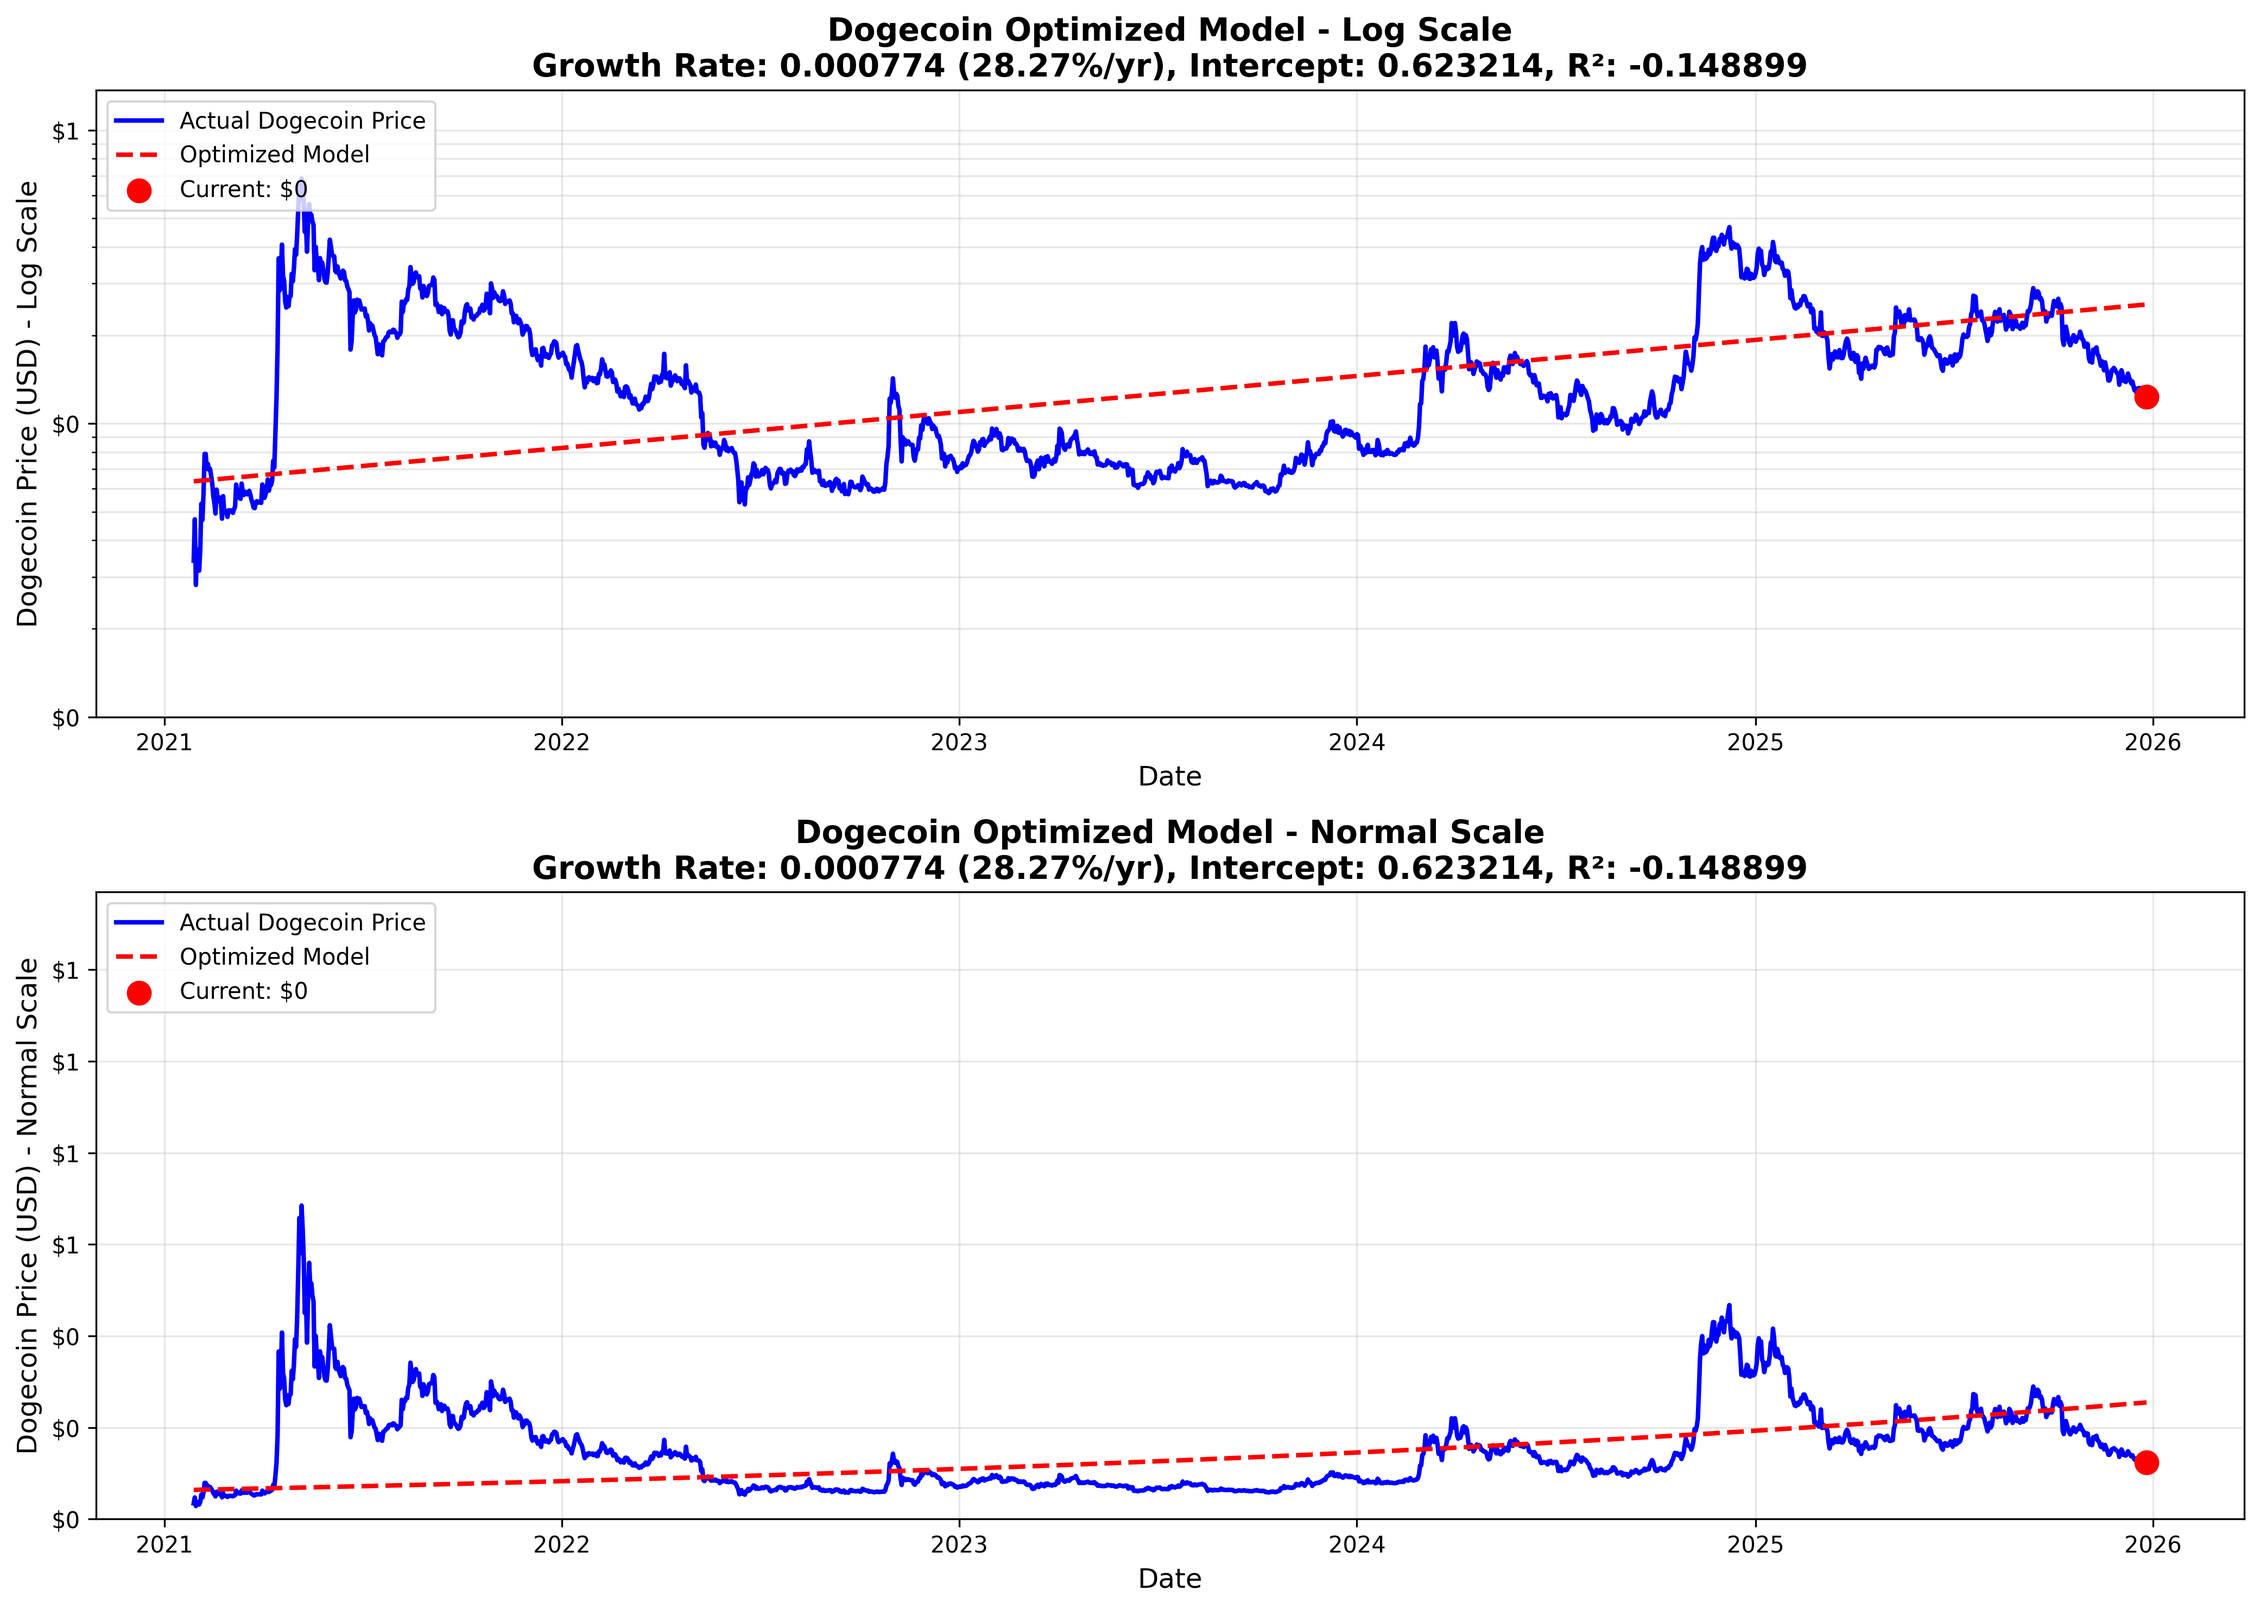
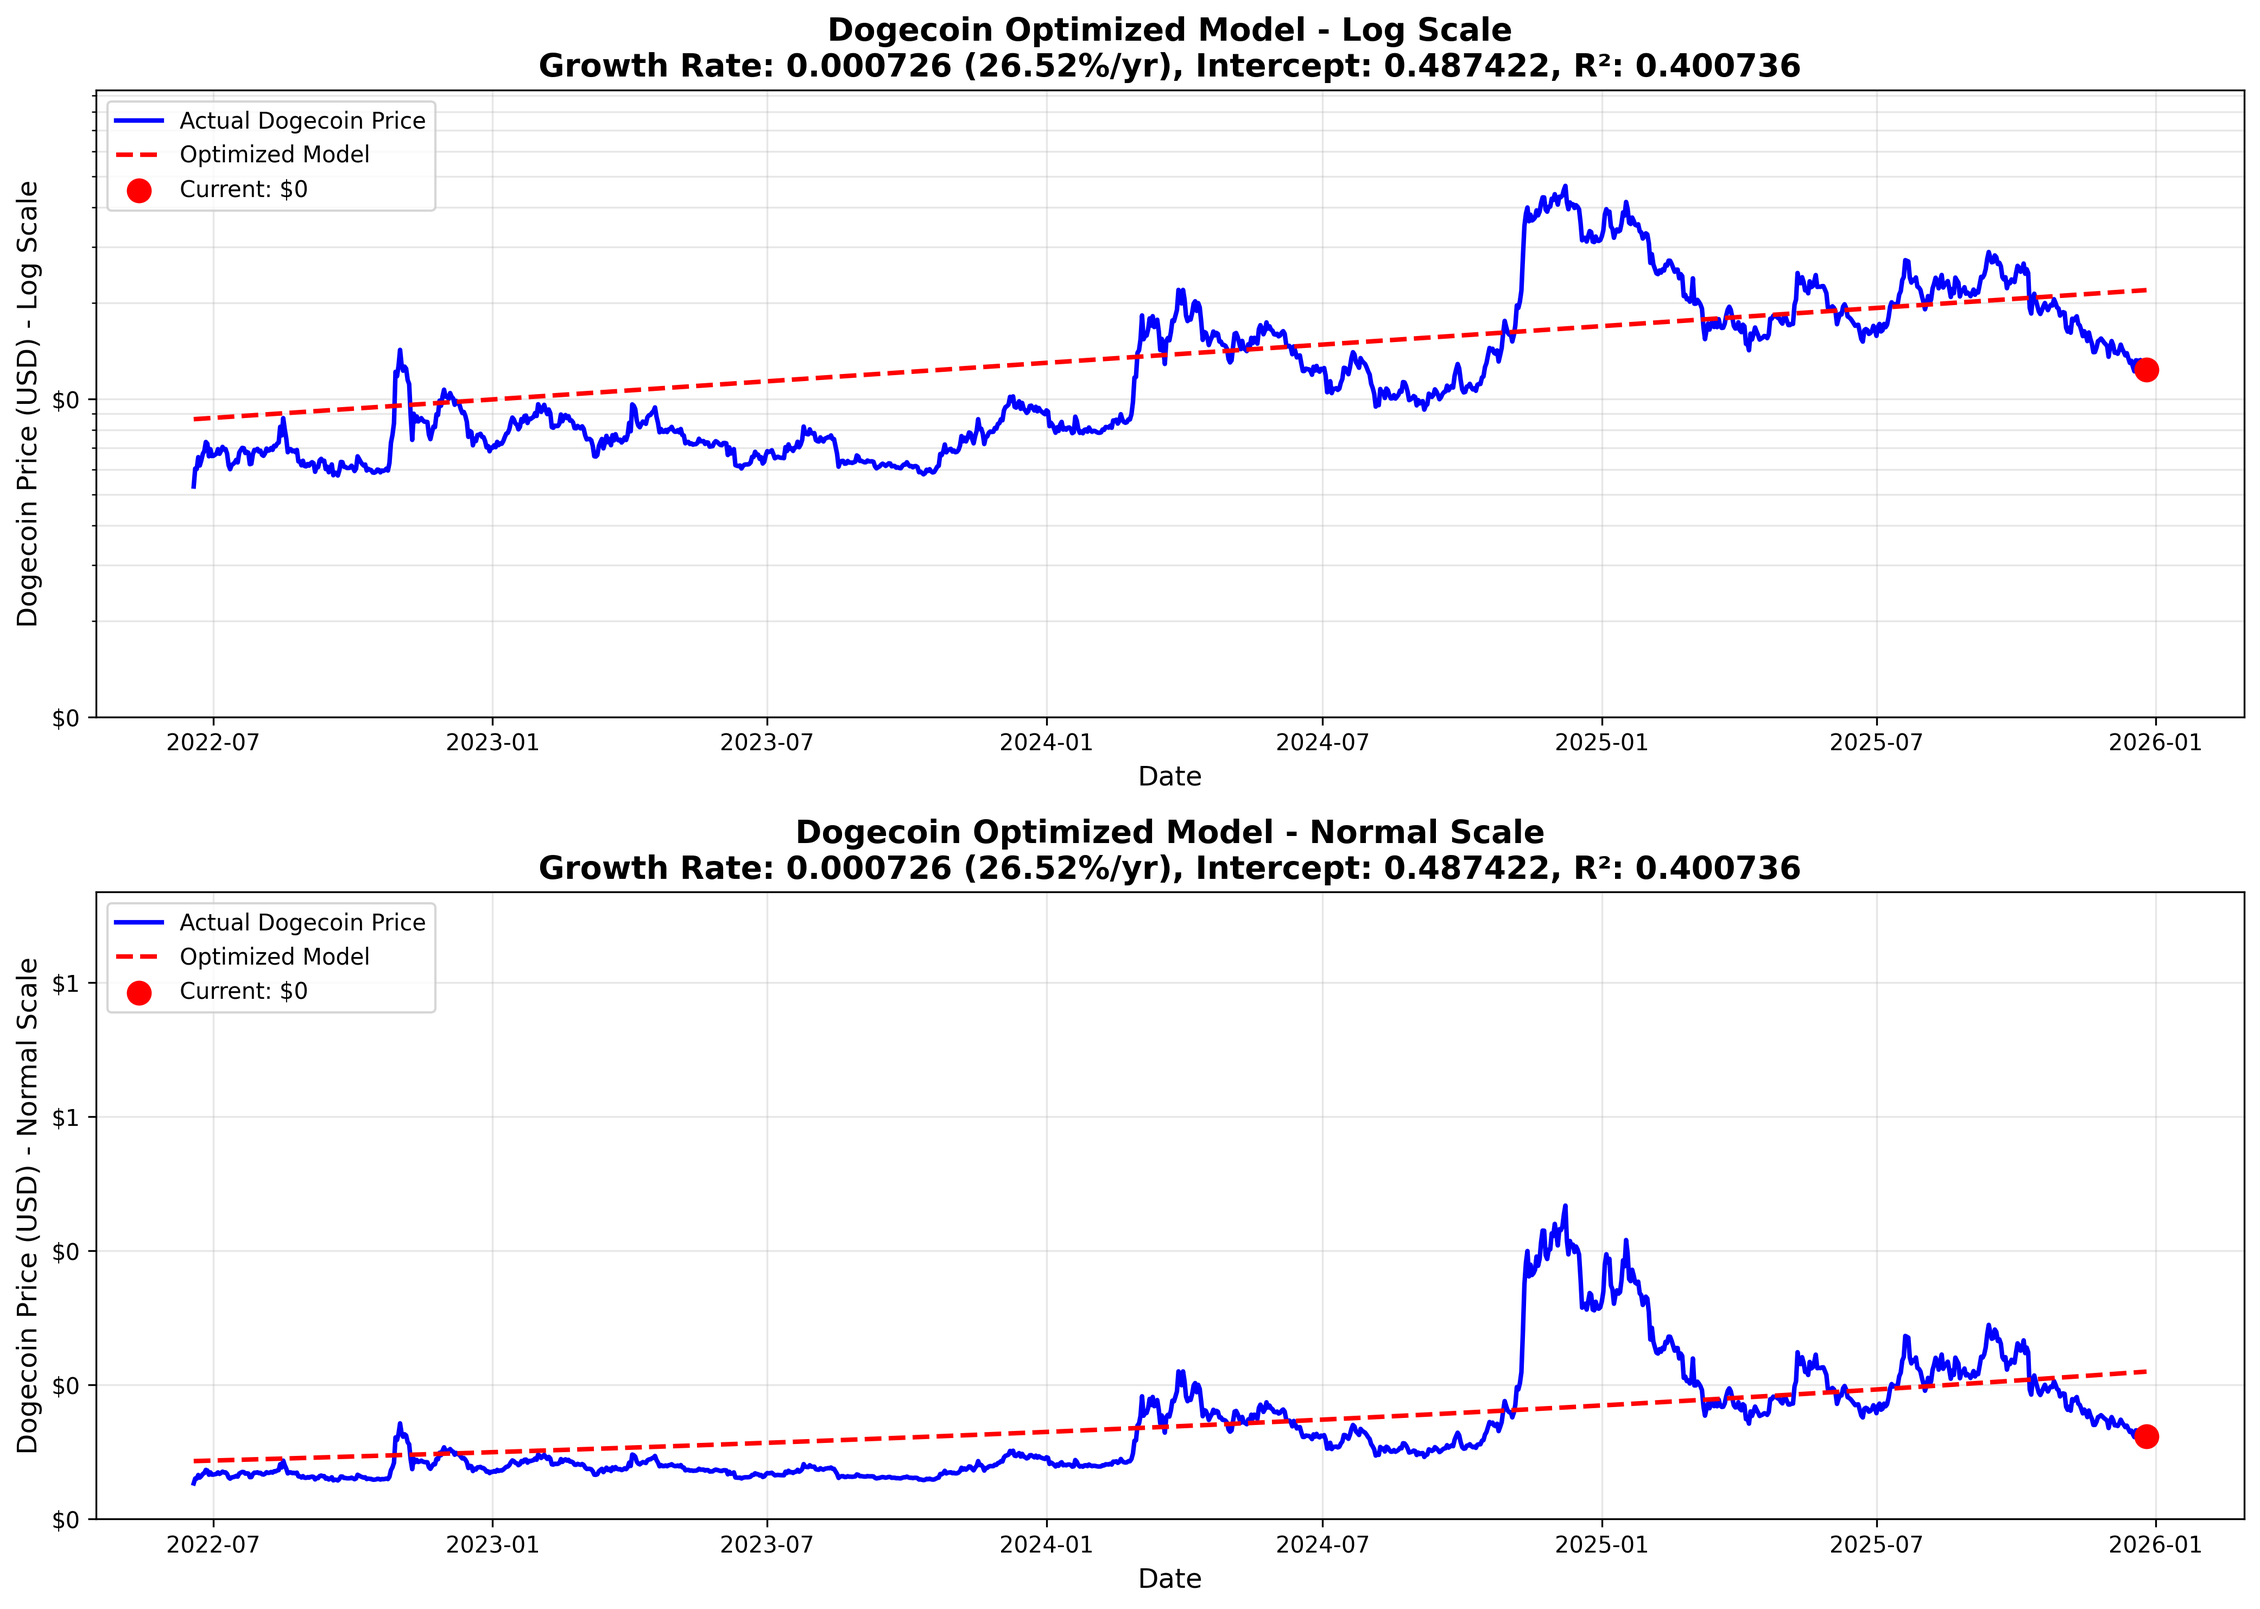
holy

diff --git a/Crypto/Doge/config.py b/Crypto/Doge/config.py
@@ -21,7 +21,7 @@ YAHOO_TICKER = "DOGE-USD"  # Yahoo Finance ticker symbol (e.g., "BTC-USD", "ETH-
 # GENESIS_DATE = "2015-07-30"  # Launch/genesis date (YYYY-MM-DD format) - OPTIONAL
 GENESIS_DATE = None  # Set to None to auto-detect from data, or specify a date string
 
-START_DATE = "2021-01-28"  # Analysis start date - when to begin the rainbow chart analysis (YYYY-MM-DD format)
+START_DATE = "2022-06-18"  # Analysis start date - when to begin the rainbow chart analysis (YYYY-MM-DD format)
 # Leave as empty string "" to auto-detect from first date in data file
 # Or specify a date like "2017-05-18" to start analysis from that date
 
@@ -44,7 +44,7 @@ OUTPUT_FOLDER = "Crypto/Doge"
 # This is typically found by running the interactive rainbow chart first
 # Growth rate is in "per day" units (e.g., 0.001 = 0.1% per day ≈ 36.5% per year)
 # Set to None to let optimize_intercept.py find the optimal growth rate automatically
-FIXED_GROWTH_RATE = .000774  # Example: 0.001 for 0.1% daily growth
+FIXED_GROWTH_RATE = .000726  # Example: 0.001 for 0.1% daily growth
 
 # ============================================
 # DATA SOURCE

diff --git a/Crypto/Doge/interactive_rainbow.py b/Crypto/Doge/interactive_rainbow.py
@@ -21,7 +21,7 @@ import gc
 try:
     from config import (
         CURRENCY_NAME, CURRENCY_NAME_LOWER, DATA_FOLDER, HISTORICAL_DATA_FILE,
-        OUTPUT_FOLDER, START_DATE, SLOPE_MIN, SLOPE_MAX,
+        OUTPUT_FOLDER, START_DATE,
         get_output_files, validate_config
     )
     # GENESIS_DATE is optional - will auto-detect from data if not provided
@@ -30,7 +30,7 @@ try:
     except ImportError:
         GENESIS_DATE = None  # Will auto-detect from data
 except ImportError:
-    print("Error: config.py not found! Make sure you're running from the clone folder.")
+    print("Error: config.py not found! Make sure config.py is in the same folder as this script.")
     sys.exit(1)
 
 # Validate config

diff --git a/clone/interactive_rainbow.py b/clone/interactive_rainbow.py
@@ -21,7 +21,7 @@ import gc
 try:
     from config import (
         CURRENCY_NAME, CURRENCY_NAME_LOWER, DATA_FOLDER, HISTORICAL_DATA_FILE,
-        OUTPUT_FOLDER, START_DATE, SLOPE_MIN, SLOPE_MAX,
+        OUTPUT_FOLDER, START_DATE,
         get_output_files, validate_config
     )
     # GENESIS_DATE is optional - will auto-detect from data if not provided
@@ -30,7 +30,7 @@ try:
     except ImportError:
         GENESIS_DATE = None  # Will auto-detect from data
 except ImportError:
-    print("Error: config.py not found! Make sure you're running from the clone folder.")
+    print("Error: config.py not found! Make sure config.py is in the same folder as this script.")
     sys.exit(1)
 
 # Validate config
